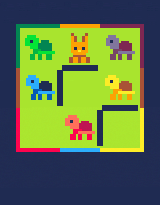
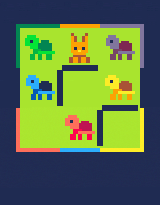
update colors of TurtlesAndHare

Changed region(s): [[0.0938, 0.322, 0.375, 0.761], [0.625, 0.1171, 0.9062, 0.5268]]

diff --git a/website/public/games/turtles-and-hare/player/index.js b/website/public/games/turtles-and-hare/player/index.js
@@ -68,24 +68,24 @@ var _cartdat=[
 0,0,0,0,0,0,0,0,0,0,0,0,0,0,0,0,0,0,0,0,0,0,0,0,0,0,0,0,0,0,0,0,0,0,0,0,0,0,0,0,0,0,0,0,0,0,0,0,0,0,0,0,0,0,0,0,0,0,0,0,0,0,0,0,0,0,0,0,0,0,0,0,0,0,0,0,0,0,0,0,0,0,0,0,0,0,0,0,0,0,0,0,0,0,0,0,0,0,0,0,0,0,0,0,0,0,0,0,0,0,0,0,0,0,0,0,0,0,0,0,0,0,0,0,0,0,0,0,0,0,0,0,0,0,0,0,0,0,0,0,0,0,0,0,0,0,0,0,0,0,0,0,0,0,0,0,0,0,0,0,0,0,0,0,0,0,0,0,0,0,0,0,0,0,0,0,0,0,0,0,0,0,0,0,0,0,0,0,0,0,0,0,0,0,0,0,0,0,0,0,0,0,0,0,0,0,0,0,0,0,0,0,0,0,0,0,0,0,0,0,0,0,0,0,0,0,0,0,0,0,0,0,0,0,0,0,0,0,0,0,0,0,0,0,0,0,0,0,0,0,0,0,0,0,0,0,
 0,0,0,0,0,0,0,0,0,0,0,0,0,0,0,0,0,0,0,0,0,0,0,0,0,0,0,0,0,0,0,0,0,0,0,0,0,0,0,0,0,0,0,0,0,0,0,0,0,0,0,0,0,0,0,0,0,0,0,0,0,0,0,0,0,0,0,0,0,0,0,0,0,0,0,0,0,0,0,0,0,0,0,0,0,0,0,0,0,0,0,0,0,0,0,0,0,0,0,0,0,0,0,0,0,0,0,0,0,0,0,0,0,0,0,0,0,0,0,0,0,0,0,0,0,0,0,0,0,0,0,0,0,0,0,0,0,0,0,0,0,0,0,0,0,0,0,0,0,0,0,0,0,0,0,0,0,0,0,0,0,0,0,0,0,0,0,0,0,0,0,0,0,0,0,0,0,0,0,0,0,0,0,0,0,0,0,0,0,0,0,0,0,0,0,0,0,0,0,0,0,0,0,0,0,0,0,0,0,0,0,0,0,0,0,0,0,0,0,0,0,0,0,0,0,0,0,0,0,0,0,0,0,0,0,0,0,0,0,0,0,0,0,0,0,0,0,0,0,0,0,0,0,0,0,0,
 0,0,0,0,0,0,0,0,0,0,0,0,0,0,0,0,0,0,0,0,0,0,0,0,0,0,0,0,0,0,0,0,0,0,0,0,0,0,0,0,0,0,0,0,0,0,0,0,0,0,0,0,0,0,0,0,0,0,0,0,0,0,0,0,0,0,0,0,0,0,0,0,0,0,0,0,0,0,0,0,0,0,0,0,0,0,0,0,0,0,0,0,0,0,0,0,0,0,0,0,0,0,0,0,0,0,0,0,0,0,0,0,0,0,0,0,0,0,0,0,0,0,0,0,0,0,0,0,0,0,0,0,0,0,0,0,0,0,0,0,0,0,0,0,0,0,0,0,0,0,0,0,0,0,0,0,0,0,0,0,0,0,0,0,0,0,0,0,0,0,0,0,0,0,0,0,0,0,0,0,0,0,0,0,0,0,0,0,0,0,0,0,0,0,0,0,0,0,0,0,0,0,0,0,0,0,0,0,0,0,0,0,0,0,0,0,0,0,0,0,0,0,0,0,0,0,0,0,0,0,0,0,0,0,0,0,0,0,0,0,0,0,0,0,0,0,0,0,0,0,0,0,0,0,0,0,
-0,112,120,97,50,46,17,142,235,193,226,35,188,194,35,36,247,95,254,10,217,221,79,112,123,115,126,84,118,51,158,56,37,59,190,206,218,55,72,78,201,174,41,170,180,47,202,129,46,59,167,104,23,188,122,79,243,0,205,51,76,196,209,72,218,157,84,60,64,85,22,3,51,51,233,68,93,36,231,215,249,68,113,221,91,4,183,92,21,4,197,134,11,95,96,202,11,67,193,84,241,26,213,130,243,25,190,69,88,86,97,112,220,113,206,107,157,159,135,240,66,116,221,156,100,248,145,86,146,1,201,164,100,168,243,211,70,81,219,222,55,112,159,241,143,172,51,70,91,167,206,255,177,216,25,171,29,232,141,253,10,246,9,23,234,212,121,109,236,108,23,13,24,183,52,78,89,148,246,45,23,124,229,248,44,116,149,250,72,20,41,134,203,121,149,224,72,157,196,186,232,79,218,173,149,19,3,225,130,177,178,76,151,28,177,212,72,28,84,153,179,98,49,177,202,89,34,75,73,222,59,43,214,50,79,152,101,242,39,81,238,172,168,17,102,111,217,133,19,206,43,157,143,82,128,40,
+0,112,120,97,50,54,17,143,235,193,226,35,188,194,35,36,247,95,254,10,217,221,79,112,123,115,126,84,118,51,158,56,37,59,190,206,218,55,72,78,201,174,41,170,180,47,202,129,46,59,167,104,23,188,122,79,243,0,205,51,76,196,209,72,218,157,84,60,64,85,22,3,51,51,233,68,93,36,231,215,249,68,113,221,91,4,183,92,21,4,197,134,11,95,96,202,11,67,193,84,241,26,213,130,243,25,190,69,88,86,97,112,220,113,206,107,157,159,135,240,66,116,221,156,100,248,145,86,146,1,201,164,100,168,243,211,70,81,219,222,55,112,159,241,143,172,51,70,91,167,206,255,177,216,25,171,29,232,141,253,10,246,9,23,234,212,121,109,236,108,23,13,24,183,52,78,89,148,246,45,23,124,229,248,44,116,149,250,72,20,41,134,203,121,149,224,72,157,196,186,232,79,218,173,149,19,3,225,130,177,178,76,151,28,177,212,72,28,84,153,179,98,49,177,202,89,34,75,73,222,59,43,214,50,79,152,101,242,39,81,238,172,168,17,102,111,217,133,19,206,43,157,143,82,128,40,
 54,222,132,100,120,18,145,144,52,200,180,196,15,145,181,40,158,16,121,87,235,156,48,212,44,146,57,103,224,44,101,146,40,168,2,103,38,206,136,4,18,133,97,146,52,116,166,242,211,132,75,210,170,118,78,44,102,174,222,62,109,38,255,208,213,181,177,202,50,147,159,142,165,100,218,60,200,157,217,56,59,173,156,147,7,202,236,234,140,19,54,202,44,117,224,188,162,113,78,83,201,172,163,84,153,236,34,157,119,201,71,244,113,44,243,174,48,146,121,149,184,12,52,140,42,165,117,196,82,138,141,148,186,74,37,19,237,75,145,40,141,199,70,21,173,75,157,149,69,186,240,81,168,201,194,194,88,138,83,170,180,141,92,149,239,164,207,231,142,50,203,4,195,19,246,161,113,10,233,137,38,14,141,85,245,58,246,168,133,83,154,137,76,17,255,8,245,105,6,18,227,85,185,229,140,211,133,82,77,149,188,166,140,125,50,65,157,129,94,223,54,211,98,213,221,44,244,45,245,142,38,58,93,114,164,105,108,188,118,64,170,62,82,49,145,238,103,236,41,93,62,129,164,180,106,6,
-52,249,19,245,153,38,111,3,4,225,235,146,72,122,29,3,35,193,72,16,12,14,61,196,220,224,214,214,72,148,85,50,63,89,179,182,56,26,25,161,239,150,50,63,116,111,49,145,68,131,241,194,66,88,143,6,197,108,63,90,174,141,86,187,85,81,107,6,76,173,142,14,38,5,14,132,244,67,35,93,159,143,228,205,196,212,212,102,178,152,239,53,155,77,220,108,54,59,141,66,64,95,44,118,213,94,36,232,176,17,239,236,45,109,180,209,140,74,88,89,14,153,99,72,41,32,87,12,216,84,11,144,8,85,24,16,18,153,146,13,145,8,28,21,21,88,21,20,104,6,23,102,22,182,70,151,22,222,98,96,172,30,26,40,242,98,160,24,40,22,22,22,234,126,104,103,114,97,98,112,98,34,29,94,137,70,251,149,145,34,104,38,22,179,102,166,210,58,72,170,201,170,233,246,186,34,105,180,8,130,206,125,35,158,72,131,192,19,117,61,235,138,206,85,123,154,33,105,26,164,245,152,147,60,179,167,30,210,205,169,7,140,104,134,213,154,33,171,74,34,3,129,43,102,157,210,
-40,142,108,58,201,127,143,16,207,22,207,160,59,160,17,214,36,169,91,178,129,34,112,83,224,173,164,24,208,31,170,170,77,63,86,238,138,220,163,83,80,4,110,105,189,165,64,166,43,210,249,45,208,21,203,221,213,4,97,224,150,93,111,85,145,119,52,72,70,253,168,43,118,165,123,232,42,36,76,135,100,29,6,166,230,198,235,161,162,216,40,10,55,140,100,153,17,34,199,136,67,76,206,44,78,47,237,109,70,131,163,81,83,84,39,222,184,209,141,151,233,110,19,9,192,110,236,173,41,7,204,41,48,76,109,52,42,12,213,78,147,4,162,48,65,102,1,63,84,134,8,28,17,88,102,111,58,79,103,250,209,102,100,201,21,139,205,112,150,204,142,140,236,148,19,114,114,163,201,149,35,179,85,50,213,46,175,245,35,206,89,171,167,210,102,101,175,84,29,24,142,54,10,249,134,229,40,206,102,227,92,137,30,75,11,77,99,154,201,217,106,192,137,158,162,244,176,178,108,205,178,105,174,96,213,37,152,31,86,143,132,221,208,148,74,68,146,132,19,145,248,133,48,193,68,148,
-62,133,136,200,120,150,14,116,93,25,207,152,65,137,68,3,29,105,18,103,73,52,180,51,180,80,132,74,8,130,23,97,232,134,201,205,225,11,203,51,151,93,167,24,78,69,154,46,159,74,52,195,68,115,20,148,139,161,217,165,137,137,96,174,92,206,35,249,128,40,106,150,39,131,237,40,81,72,173,102,38,38,20,18,38,39,21,23,231,251,169,225,3,70,36,110,151,203,213,81,33,130,197,188,24,24,238,123,81,165,33,61,140,137,110,91,51,76,166,177,44,199,226,60,217,214,65,152,18,12,209,16,10,133,2,60,146,7,117,173,28,166,181,179,28,13,41,7,54,237,154,6,194,230,110,42,30,210,117,15,209,36,123,114,31,113,112,227,64,93,15,44,109,230,11,85,160,47,188,181,89,22,235,253,72,191,52,32,96,80,105,118,172,142,218,127,131,105,17,149,194,4,2,33,206,92,147,95,88,106,23,131,40,207,151,146,50,73,154,114,200,7,69,33,143,188,16,8,192,217,212,76,142,17,99,231,9,227,105,48,174,111,208,134,114,12,51,69,155,196,27,51,210,37,77,117,
-107,161,83,164,52,192,124,2,73,156,173,228,125,166,41,103,175,91,237,255,116,254,79,22,22,242,225,27,207,146,112,71,64,212,211,153,169,244,225,187,50,149,172,39,139,130,228,147,97,158,210,43,63,37,10,229,150,4,77,244,86,52,27,22,6,181,231,143,201,44,216,221,154,74,229,142,52,226,165,96,169,20,55,22,43,218,14,39,195,87,236,228,65,225,135,222,243,218,104,2,121,115,102,250,234,176,172,50,142,240,61,231,122,77,12,73,173,181,88,192,58,26,29,217,15,77,69,195,66,121,150,235,233,83,207,168,81,9,105,246,27,221,191,88,102,30,118,201,237,14,81,204,17,50,23,200,164,109,100,131,26,30,8,105,150,70,61,34,86,85,111,40,4,237,116,23,172,20,26,111,51,51,193,136,136,231,228,13,39,180,35,89,42,33,146,201,82,4,218,19,55,172,105,200,155,5,66,36,82,123,137,4,67,76,24,94,1,33,132,123,103,234,140,182,189,192,107,100,16,46,34,9,13,224,57,96,65,245,223,91,73,20,233,165,11,70,130,197,51,138,98,108,58,148,17,108,
-47,16,18,135,175,148,196,157,12,150,221,244,91,108,146,87,152,79,18,81,187,17,245,33,75,46,100,23,52,107,26,16,141,40,177,109,22,220,144,236,109,77,35,73,184,189,83,230,11,66,2,10,6,129,176,144,224,207,68,159,45,236,232,251,234,189,71,187,88,153,71,80,112,187,22,27,82,39,167,66,255,211,151,179,67,209,152,119,212,106,132,234,228,15,50,225,14,205,214,78,183,190,131,90,59,86,28,88,28,129,5,209,89,119,10,188,172,138,251,79,247,72,194,254,161,198,16,113,254,146,220,96,223,233,184,107,107,89,37,109,88,37,221,35,43,83,59,210,15,11,229,194,28,178,133,67,107,79,63,90,40,54,150,249,29,210,150,157,152,152,205,146,5,233,0,235,67,101,54,106,171,42,177,38,142,132,29,176,50,212,251,96,123,204,71,153,31,131,36,209,233,211,45,86,236,37,153,80,218,8,84,75,93,53,34,12,133,170,135,255,20,240,171,20,52,170,33,176,8,102,168,240,56,75,12,86,156,29,250,58,218,27,7,12,150,122,206,115,189,138,208,132,183,50,111,169,
-150,255,83,249,156,155,72,54,20,210,227,218,62,73,196,209,35,246,19,169,35,6,234,136,65,227,199,192,111,218,197,69,84,39,218,37,165,123,132,17,101,144,18,231,137,146,255,149,109,72,26,159,68,89,147,204,155,78,246,115,89,112,98,40,203,148,94,187,73,133,119,20,133,164,59,138,45,69,147,162,80,48,41,138,102,165,153,217,28,49,175,48,58,200,131,100,79,229,233,138,229,92,240,86,10,197,204,10,40,184,34,228,153,113,183,73,122,10,146,137,122,150,162,254,86,169,200,157,52,56,172,235,49,196,105,226,176,19,237,136,90,110,42,90,201,7,66,81,190,36,169,7,214,53,184,33,32,36,186,32,146,142,212,9,25,204,18,229,70,251,197,254,143,180,104,37,191,159,201,25,219,170,29,73,141,44,86,130,253,11,11,161,254,233,19,106,245,119,166,235,68,15,22,216,42,132,79,194,145,108,198,128,18,12,49,225,151,244,167,16,57,84,190,195,92,73,207,208,165,170,169,168,233,178,176,112,28,19,162,176,101,13,45,162,70,65,225,192,160,80,129,112,104,105,143,76,
-45,36,122,116,130,226,214,111,234,119,181,131,180,253,131,58,226,17,50,167,84,159,80,198,130,198,251,213,117,206,74,202,74,237,255,39,20,137,108,142,105,196,40,177,207,187,122,231,70,159,240,138,28,18,78,112,168,220,255,8,103,4,202,253,165,48,129,42,86,188,2,46,129,98,212,105,123,158,14,60,163,175,170,119,57,168,120,27,104,220,6,42,233,39,10,138,63,114,145,217,76,17,238,213,243,83,146,241,218,88,208,219,81,143,23,74,140,79,39,125,250,161,67,19,157,240,196,84,63,33,162,27,163,186,144,253,185,191,112,69,43,77,23,109,219,203,255,69,98,145,40,18,150,95,211,5,211,176,23,100,132,109,163,150,97,225,212,85,167,134,107,78,190,35,82,141,199,146,76,172,150,216,29,133,245,81,90,159,77,38,27,158,194,251,44,10,193,209,164,17,23,79,166,174,30,85,163,189,166,20,24,21,76,151,250,250,163,21,179,97,30,86,14,159,82,132,103,2,18,14,255,140,197,193,225,221,186,33,228,222,112,42,216,59,201,3,103,74,139,44,77,243,106,136,180,41,
-72,135,91,64,252,92,28,81,36,212,25,115,99,165,252,235,61,37,58,231,137,209,105,209,202,206,63,161,238,220,68,46,197,67,143,35,146,81,221,144,194,164,196,172,172,166,144,255,95,37,79,193,172,209,132,88,130,165,213,73,98,225,213,150,135,101,36,11,165,54,221,20,166,65,43,178,45,123,43,146,187,46,119,223,164,19,139,92,94,4,155,112,128,246,184,4,70,43,129,241,108,105,87,141,232,11,65,175,184,146,100,85,57,28,112,56,54,39,47,46,216,9,15,219,133,63,74,172,141,209,6,202,157,82,190,252,255,31,29,59,9,3,41,246,208,181,152,24,127,68,71,23,247,212,212,15,250,21,255,161,138,74,240,226,25,173,58,71,77,152,94,59,141,50,167,144,248,169,126,46,145,242,178,196,144,30,45,3,135,87,207,188,56,32,40,104,126,57,6,242,197,31,57,253,65,205,224,252,158,96,149,122,148,33,199,26,107,206,140,166,122,236,64,160,241,40,85,129,189,40,79,133,239,136,161,177,161,29,19,8,163,133,123,91,88,17,168,39,11,76,227,19,65,255,167,35,
-164,201,41,39,188,32,84,234,104,145,85,249,75,161,230,126,105,209,87,122,244,115,247,148,190,61,4,113,117,61,148,148,124,166,94,184,211,108,81,81,248,52,229,79,229,80,129,79,1,113,233,21,155,94,186,48,114,243,101,171,240,71,184,222,74,46,50,239,63,116,241,129,134,227,33,20,241,67,97,55,81,216,7,54,142,155,184,195,171,201,59,168,24,126,145,213,144,96,248,15,17,253,228,51,42,195,74,231,159,32,60,164,203,35,141,169,228,255,27,96,194,35,148,63,223,178,232,248,187,49,177,186,177,199,103,68,219,123,55,84,205,17,152,77,216,1,9,57,151,237,48,103,55,10,38,86,11,161,96,146,4,35,9,18,10,38,47,100,19,110,14,77,4,27,209,112,51,98,250,164,155,93,212,149,158,133,94,226,51,210,165,153,237,20,119,73,170,170,27,114,74,182,220,81,81,248,97,37,125,210,1,125,114,70,250,228,247,152,218,64,165,80,254,35,207,115,53,242,152,46,110,27,213,242,40,20,39,186,36,113,37,83,18,137,147,36,98,37,10,229,167,194,250,197,85,7,
-131,35,2,171,162,199,60,89,210,182,181,135,82,227,43,168,11,99,196,30,90,48,190,20,67,146,164,113,128,235,153,20,137,175,92,175,36,144,23,24,51,69,211,219,94,137,109,84,71,162,166,243,189,194,66,117,44,108,58,231,87,69,64,95,196,58,203,190,87,97,137,32,41,156,255,89,175,179,222,158,245,85,88,79,246,180,242,190,140,83,120,55,244,150,62,253,163,95,127,81,143,225,84,62,59,179,182,158,192,120,57,86,230,23,23,25,85,176,88,155,27,223,16,183,164,236,146,153,158,33,203,85,118,113,172,19,148,116,51,221,182,237,177,156,205,239,133,135,134,161,163,249,206,40,210,27,188,97,54,219,148,24,106,195,174,9,209,124,80,74,72,11,63,250,241,16,19,88,157,82,124,96,52,17,113,23,195,53,91,221,220,6,227,149,67,212,87,69,168,83,17,127,84,90,148,4,149,99,180,196,31,37,241,23,42,198,1,217,165,193,222,224,170,36,153,74,249,102,55,87,213,39,130,82,218,169,104,181,233,212,201,39,34,142,89,17,241,31,93,43,35,150,72,155,4,141,
-128,184,52,242,127,50,135,209,4,172,148,52,236,90,50,57,89,40,57,243,116,193,64,21,234,116,25,178,51,68,96,136,56,212,9,32,69,18,157,28,214,54,8,120,219,120,69,73,228,134,20,167,203,102,139,66,58,254,228,28,180,168,195,16,243,39,86,28,111,104,152,192,240,73,22,134,146,168,221,168,252,154,21,89,226,55,145,25,73,41,106,10,86,93,204,18,121,88,218,66,41,8,151,40,104,100,168,55,253,207,194,62,181,125,84,107,142,24,91,85,177,88,57,65,84,28,50,172,105,234,109,101,193,66,89,40,8,5,223,81,138,132,63,242,226,144,127,143,54,69,26,12,20,65,221,168,45,204,68,126,201,130,162,8,162,40,113,67,153,185,159,69,225,254,104,88,203,137,191,98,226,148,15,117,127,196,196,51,53,33,100,47,205,248,127,171,245,208,102,128,254,133,74,209,91,149,84,188,139,66,185,81,254,167,153,13,162,137,201,137,149,144,236,76,71,22,151,59,234,50,168,22,133,34,138,98,196,127,0,102,98,152,192,208,59,179,67,98,225,245,62,196,2,213,195,145,
-36,184,29,254,107,167,155,217,224,21,83,97,111,59,32,125,209,78,216,81,86,56,119,146,21,107,149,214,191,44,49,96,205,41,235,87,74,168,49,71,224,35,243,55,49,71,99,142,198,71,133,52,254,73,153,164,0,27,30,20,51,138,89,110,124,88,42,140,98,225,47,178,135,131,202,204,31,105,191,116,194,148,115,19,115,166,110,163,234,128,198,205,185,27,2,111,235,125,68,115,120,46,46,49,45,171,69,92,82,150,116,188,19,222,29,126,23,13,102,141,72,34,5,246,233,140,59,85,44,12,90,179,106,134,76,221,207,69,74,59,181,76,112,32,19,142,64,38,56,144,9,228,76,19,176,41,111,62,185,166,43,126,166,198,151,146,184,96,45,92,90,71,59,91,97,220,180,58,34,59,81,219,68,49,42,142,11,17,198,127,201,36,145,212,17,123,12,135,3,217,76,180,154,109,110,76,87,93,44,172,203,94,225,91,152,161,175,240,82,113,121,136,48,109,26,116,73,44,95,202,37,185,64,142,61,96,63,62,229,245,31,114,194,250,235,255,43,52,172,194,254,159,248,78,44,80,
-115,130,64,253,33,99,54,97,179,102,103,214,136,67,5,222,20,171,201,44,179,135,9,69,145,135,153,202,165,54,35,172,226,233,124,48,159,200,153,63,148,75,194,69,59,101,138,228,148,105,47,245,159,66,230,9,29,132,171,25,84,107,216,232,194,145,145,25,1,247,73,13,20,188,79,254,71,182,139,56,137,100,251,153,133,133,161,133,222,14,24,43,186,189,162,112,189,113,44,197,85,68,127,152,192,129,34,62,167,36,169,239,115,41,42,40,209,107,138,173,244,125,99,97,127,45,12,2,240,81,159,58,154,121,17,106,73,42,223,44,36,11,198,222,93,234,87,155,146,183,145,40,32,12,33,208,108,149,227,92,224,220,37,118,226,9,132,69,140,34,160,39,162,126,163,98,111,244,67,63,64,183,86,68,140,236,200,17,36,76,134,144,76,52,69,236,237,5,237,28,136,71,104,246,170,36,201,156,175,199,184,225,128,126,127,221,24,83,154,1,206,211,143,23,91,161,149,54,154,43,114,44,21,63,137,230,72,138,189,52,47,190,32,77,102,184,16,37,40,98,121,53,231,184,158,115,
-3,147,176,132,14,129,52,81,47,142,67,86,82,233,202,134,16,81,194,1,185,112,106,4,179,152,194,82,50,71,167,9,101,154,42,149,159,36,117,202,125,225,147,41,223,158,76,89,37,83,78,87,39,154,241,17,19,57,23,95,84,92,63,37,138,141,126,224,138,102,57,89,95,113,71,234,126,238,119,234,164,150,14,101,103,242,9,79,201,199,146,243,176,70,87,47,210,51,21,200,38,246,9,126,34,244,21,64,135,140,200,156,223,140,149,86,19,225,1,101,10,9,11,99,87,138,247,202,124,222,57,243,206,69,193,145,97,123,172,78,45,161,160,184,92,161,99,99,140,33,227,79,130,74,74,204,10,82,162,170,78,108,31,202,142,3,26,37,73,139,189,200,246,28,128,249,192,164,182,79,96,95,133,255,139,231,203,5,226,229,255,53,24,224,23,26,124,31,172,31,177,19,32,224,65,127,131,124,210,222,254,98,48,139,90,38,98,159,226,37,43,209,150,90,253,32,28,65,99,28,163,179,2,200,49,124,20,209,112,81,209,83,164,161,39,224,97,4,122,18,114,194,25,154,156,169,
-154,104,83,156,138,70,203,161,23,48,167,23,26,134,58,193,137,78,152,76,184,198,102,10,93,113,232,9,200,112,44,43,10,20,73,33,21,30,164,9,119,201,26,39,122,209,23,40,150,39,88,236,34,95,75,113,172,223,176,178,88,108,207,76,133,82,35,107,214,168,78,240,253,232,180,156,200,33,30,105,146,217,214,190,2,178,82,230,8,10,65,62,243,8,16,68,39,172,109,115,124,248,85,112,124,32,183,152,227,12,186,49,82,82,90,80,82,35,198,4,37,117,84,203,161,148,186,36,67,55,37,67,135,196,215,159,40,145,12,167,88,250,42,214,79,104,214,18,206,15,159,158,203,25,89,38,110,12,72,227,82,86,138,50,224,42,199,78,165,208,170,20,94,89,49,165,240,41,155,106,138,255,223,216,152,166,248,255,8,201,99,154,163,205,36,11,66,102,54,134,168,228,181,178,140,211,36,10,138,162,1,119,65,94,24,79,213,116,82,226,204,154,64,75,176,136,156,166,167,53,59,1,246,225,7,66,132,71,112,66,216,126,105,38,29,254,255,172,165,195,155,37,64,32,254,255,
-174,65,64,252,191,189,65,232,8,252,25,126,49,19,249,45,166,191,83,248,64,252,71,233,250,103,129,26,68,93,191,113,5,145,204,245,158,82,16,113,253,49,167,32,66,163,228,75,234,188,14,9,112,37,25,104,200,67,124,92,145,178,14,160,8,136,180,212,52,72,71,30,197,244,31,11,197,34,255,17,137,166,79,47,157,131,218,56,155,96,51,78,72,53,7,87,137,19,160,204,127,81,127,120,33,198,252,28,206,13,141,42,166,150,15,76,141,151,113,204,111,210,43,39,19,134,63,56,94,254,79,25,222,80,93,254,135,11,196,37,48,13,0,0,0,0,0,0,0,0,0,0,0,0,0,0,0,0,0,0,0,0,0,0,0,0,0,0,0,0,0,0,0,0,0,0,0,0,0,0,0,0,0,0,0,0,0,0,0,0,0,0,0,0,0,0,0,0,0,0,0,0,0,0,0,0,0,0,0,0,0,0,0,0,0,0,0,0,0,0,0,0,0,0,0,0,0,0,0,0,0,0,0,0,0,0,0,0,0,0,0,0,0,0,0,0,0,0,0,0,0,0,0,0,0,0,
+52,249,19,245,153,38,111,3,4,225,235,146,72,122,29,3,35,193,72,16,12,14,61,196,220,224,214,214,72,148,85,50,63,89,179,182,56,26,25,161,239,150,50,63,116,111,49,145,68,131,241,194,66,88,143,6,197,108,63,90,174,141,86,187,85,81,107,6,76,173,142,14,38,5,14,132,244,67,35,93,159,143,228,205,196,212,212,102,178,152,239,53,155,77,220,108,54,59,141,66,64,95,44,118,213,94,36,232,176,17,239,236,45,109,180,209,140,74,88,89,14,153,99,72,41,32,87,12,216,84,11,144,8,85,24,16,18,153,146,13,209,15,136,86,212,4,138,5,89,129,85,73,129,106,111,98,102,98,106,115,105,226,45,22,182,76,177,176,84,23,19,69,47,203,209,247,109,189,52,180,216,15,236,13,12,164,195,27,209,38,118,4,236,6,197,194,98,212,172,84,122,7,73,53,89,53,51,75,93,145,52,122,4,65,231,190,13,79,140,5,129,39,234,122,214,21,157,171,6,53,67,210,52,72,235,49,39,121,102,80,61,164,155,83,15,24,209,12,171,53,67,86,149,68,6,2,
+87,204,58,165,81,28,25,117,146,255,30,33,222,44,158,65,119,64,35,172,73,82,183,100,3,69,224,166,192,91,73,49,160,63,84,85,155,126,172,220,21,185,71,167,160,8,220,210,122,75,129,76,87,164,243,91,160,43,150,187,171,9,194,192,45,187,222,170,34,239,104,144,140,250,81,87,236,74,247,16,86,72,152,14,73,59,12,76,205,141,215,67,69,177,81,20,110,24,201,50,35,68,142,17,136,152,156,89,156,94,218,219,140,6,71,163,166,168,78,188,113,163,27,47,211,221,38,18,129,221,216,91,83,14,152,147,96,152,218,104,100,152,138,42,16,134,9,42,11,248,33,50,68,224,136,192,50,123,211,117,185,146,143,54,27,67,174,88,108,134,179,100,118,99,99,166,156,144,148,27,77,174,28,153,173,146,165,118,121,172,31,113,206,88,189,152,54,43,123,165,234,192,112,180,81,200,55,44,71,113,54,27,231,106,244,88,90,104,26,211,76,206,86,3,78,244,20,169,135,149,101,107,150,77,115,5,171,46,65,253,176,122,36,236,134,166,84,34,146,36,156,136,4,48,132,9,
+38,162,244,41,68,68,198,179,116,160,235,202,120,198,12,74,36,26,232,72,147,56,75,162,161,157,161,133,34,84,66,16,189,8,67,55,76,110,14,95,88,158,185,236,58,197,112,42,210,116,249,84,162,25,38,156,163,160,92,12,205,46,77,76,4,115,229,114,30,201,7,68,81,179,60,25,108,71,137,66,106,53,51,49,161,144,48,57,169,184,56,223,79,13,31,48,34,113,187,92,174,142,10,17,44,230,197,192,112,223,139,42,13,41,98,76,116,219,154,97,50,141,101,57,22,231,201,182,14,194,148,96,136,134,80,40,20,224,145,60,168,107,229,48,189,157,229,104,72,57,176,105,215,52,16,54,119,83,241,144,174,123,136,38,217,147,252,136,131,27,7,234,122,96,105,51,95,168,2,125,225,173,205,178,88,239,71,250,165,1,1,131,74,183,99,117,212,254,27,76,139,168,20,38,16,8,113,230,154,252,194,82,187,24,68,121,190,148,148,73,210,148,67,62,40,10,121,228,133,64,0,206,166,102,114,140,24,59,79,24,79,131,113,125,131,54,148,99,152,41,218,36,222,152,145,46,
+105,170,91,11,157,34,165,1,238,19,72,226,108,37,239,51,77,57,123,221,106,255,167,243,127,178,176,144,15,223,120,150,132,59,2,162,158,206,76,165,15,223,149,169,100,61,89,20,36,159,12,243,148,94,249,41,81,40,183,36,104,162,183,162,217,176,48,168,61,127,76,102,193,238,214,84,42,119,164,17,47,5,75,165,184,177,88,209,118,56,25,190,98,39,15,10,63,244,158,215,70,19,200,155,51,211,87,135,101,149,113,132,239,57,215,107,98,72,106,173,197,2,214,209,232,200,126,104,42,34,22,202,179,92,79,159,122,70,141,74,72,179,223,232,254,197,50,243,176,75,110,119,136,98,142,208,185,64,38,109,35,27,212,240,64,72,179,52,234,17,177,170,122,67,33,104,167,187,96,165,208,120,155,153,9,70,68,60,39,111,56,161,29,201,82,9,145,76,150,34,208,158,184,97,77,67,222,44,16,34,145,218,75,36,24,98,194,240,10,8,33,220,59,83,103,180,237,5,94,35,131,112,17,73,104,0,208,1,11,170,255,222,74,162,72,47,93,48,18,44,158,81,20,99,211,161,
+140,96,123,129,144,56,124,165,36,238,100,176,236,166,223,98,147,188,194,124,146,136,218,141,168,15,89,114,33,187,160,89,211,128,104,68,137,109,179,224,134,100,111,107,26,73,194,237,157,50,95,16,18,80,48,8,132,133,4,127,38,250,108,97,71,223,87,239,61,218,197,202,60,130,130,219,181,216,144,58,57,21,250,159,190,156,29,138,198,188,163,86,35,84,39,127,144,9,119,104,182,118,186,245,29,212,218,177,226,192,226,8,48,136,206,186,83,224,101,85,220,127,186,71,18,246,15,53,134,136,243,151,230,6,251,78,199,93,91,203,42,105,195,42,233,30,89,153,218,145,126,88,40,23,230,144,45,28,90,123,250,209,66,177,177,204,239,144,182,236,196,196,108,150,44,72,7,88,31,42,179,81,91,85,137,53,113,36,236,128,149,161,222,7,219,99,62,202,252,24,36,137,78,159,110,177,98,47,201,132,210,70,160,90,234,170,17,97,40,84,61,252,167,128,95,165,160,81,13,129,69,48,67,133,199,89,98,176,226,236,208,215,209,222,56,96,176,212,115,158,235,85,132,38,188,149,
+121,75,181,252,159,202,231,220,68,178,161,144,30,215,246,73,34,142,30,177,159,72,29,49,80,71,12,26,63,6,126,211,46,46,162,58,209,46,41,221,35,140,40,131,148,56,79,148,252,175,108,67,210,248,36,202,154,100,222,116,178,159,203,130,19,67,89,166,244,218,77,42,188,163,40,36,221,81,108,41,154,20,133,130,73,81,52,43,205,204,230,136,121,133,209,65,31,36,123,42,79,87,44,231,130,183,82,40,102,86,64,193,21,33,207,140,187,77,210,83,144,76,212,179,20,245,183,74,69,238,164,193,97,93,143,33,78,19,135,157,104,71,212,114,83,209,74,62,16,138,242,37,73,61,176,174,193,13,1,33,209,5,145,116,164,78,200,96,150,40,55,218,47,246,127,164,69,43,249,253,76,206,216,86,237,72,106,100,177,18,236,95,88,8,245,79,159,80,171,191,51,93,39,122,176,192,86,33,124,18,142,100,51,6,148,96,136,9,191,164,63,133,200,161,242,29,230,74,122,134,46,85,77,69,77,151,133,133,227,152,16,133,45,107,104,17,53,10,10,7,6,133,10,132,67,75,
+123,100,106,33,209,163,19,20,183,126,83,191,171,29,164,237,31,212,17,143,144,57,165,250,132,50,22,52,222,175,174,115,86,82,86,106,255,63,161,72,100,115,76,35,70,137,125,222,213,59,55,250,132,87,228,144,112,130,67,229,254,71,56,35,80,238,47,133,9,84,177,226,21,112,9,20,163,78,219,243,116,224,25,125,85,189,203,65,197,219,64,227,54,80,73,63,81,80,252,145,139,204,102,138,112,175,158,159,146,140,215,198,130,222,142,122,188,80,98,124,58,233,211,15,29,154,232,132,39,166,250,9,17,221,24,213,133,236,207,253,133,43,90,105,186,104,219,94,254,47,18,139,68,145,176,252,154,46,152,134,189,32,35,108,27,181,12,11,167,174,58,53,92,115,242,29,145,106,60,150,100,98,181,196,238,40,172,143,210,250,108,50,217,240,20,222,103,81,8,142,38,141,184,120,50,117,245,168,26,237,53,165,192,168,96,186,212,215,31,173,152,13,243,176,114,248,148,34,60,19,144,112,248,103,44,14,14,239,214,13,33,247,134,83,193,222,73,30,56,83,90,100,105,154,87,67,
+164,77,65,58,220,2,226,231,226,136,34,161,206,152,27,43,229,95,239,41,209,57,79,140,78,139,86,118,254,9,117,231,38,114,41,30,122,28,145,140,234,134,20,38,37,102,101,53,133,252,255,42,121,10,102,141,38,196,18,44,173,78,18,11,175,182,60,44,35,89,40,181,233,166,48,13,90,145,109,217,91,145,220,117,185,251,38,157,88,228,242,34,216,132,3,180,199,37,48,90,9,140,103,75,187,106,68,95,8,122,197,149,36,171,202,225,128,195,177,57,121,113,193,78,120,216,46,252,81,98,109,140,54,80,238,148,242,229,255,255,232,216,73,24,72,177,135,174,197,196,248,35,58,186,184,167,166,126,208,175,248,15,85,84,130,23,207,104,213,57,106,194,244,218,105,148,57,133,196,79,245,115,137,148,151,37,134,244,104,25,56,188,122,230,197,1,65,65,243,203,49,144,47,254,200,233,15,106,6,231,247,4,171,212,163,12,57,214,88,115,102,52,213,99,7,2,141,71,169,10,236,69,121,42,124,71,12,141,13,237,152,64,24,45,220,219,194,138,64,61,89,96,26,159,8,250,
+63,29,33,77,78,57,225,5,161,82,71,139,172,202,95,10,53,247,75,139,190,210,163,159,187,167,244,237,33,136,171,235,161,164,228,51,245,194,157,102,139,138,194,167,41,127,42,135,10,124,10,136,75,175,216,244,210,133,145,155,47,91,133,63,194,245,86,114,145,121,255,161,139,15,52,28,15,161,136,31,10,187,137,194,62,176,113,220,196,29,94,77,222,65,197,240,139,172,134,4,195,127,136,232,39,159,81,25,86,58,255,4,225,33,93,30,105,76,37,255,223,0,19,30,161,252,249,150,69,199,223,141,137,213,141,61,62,35,218,222,187,161,106,142,192,108,194,14,72,200,185,108,135,57,187,81,48,177,90,8,5,147,36,24,73,144,80,48,121,33,155,112,115,104,34,216,136,134,155,17,211,39,221,236,162,174,244,44,244,18,159,145,46,205,108,167,184,75,82,85,221,144,83,178,229,142,138,194,15,43,233,147,14,232,147,51,210,39,191,199,212,6,42,133,242,31,121,158,171,145,199,116,113,219,168,150,71,161,56,209,37,137,43,153,146,72,156,36,17,43,81,40,63,21,214,47,
+182,58,24,28,17,88,21,61,230,201,146,182,173,61,102,124,165,117,97,140,216,67,11,198,151,98,72,146,52,14,112,61,147,34,241,149,235,149,4,242,2,99,166,104,122,219,43,177,141,234,136,188,128,182,248,194,80,118,44,172,50,235,91,71,64,97,196,59,81,97,124,5,158,8,146,194,250,167,247,42,239,205,89,95,133,245,164,79,43,239,203,56,133,119,67,111,105,212,63,26,246,23,251,24,46,213,171,43,99,235,9,144,151,99,100,126,112,144,83,5,139,177,181,241,113,129,75,210,46,153,233,57,178,92,101,23,199,58,65,73,183,210,109,219,30,203,217,252,94,120,104,24,58,154,243,140,34,189,193,27,102,179,77,137,161,54,236,154,16,207,7,165,132,244,240,163,33,15,49,129,213,41,213,7,78,19,17,120,49,92,179,213,205,109,112,94,57,132,125,85,132,58,21,241,71,168,69,73,80,61,70,75,252,81,18,127,193,98,28,160,93,26,236,13,174,74,146,169,148,111,118,115,85,129,34,40,181,157,138,86,159,78,157,124,34,226,152,21,17,255,209,181,50,98,137,180,
+73,208,8,136,75,39,255,39,119,24,77,0,75,73,195,175,37,147,147,133,146,51,83,23,12,84,161,86,151,33,59,67,4,134,136,67,157,0,90,36,209,202,97,110,131,128,187,141,87,148,68,110,72,145,186,76,85,67,58,254,228,29,180,38,67,17,243,167,85,28,111,103,152,192,240,73,6,118,146,40,157,168,252,154,21,89,226,55,145,25,73,41,114,10,86,93,204,18,121,88,234,66,41,40,151,40,104,100,168,39,253,207,194,62,177,125,84,107,142,216,26,85,177,24,57,65,84,28,50,172,105,234,109,101,193,66,89,40,8,5,223,81,138,132,63,242,226,144,127,143,54,69,26,244,69,80,55,106,11,43,145,95,178,160,40,130,40,74,220,80,102,238,103,81,184,63,26,214,114,226,175,152,56,229,67,221,31,49,241,44,13,11,217,75,51,254,223,106,61,180,25,224,127,161,82,244,86,37,21,239,162,80,110,148,255,105,102,131,104,98,114,98,37,164,59,211,145,197,229,142,188,12,170,69,161,136,162,24,241,31,132,153,24,38,48,244,206,236,144,88,120,189,15,177,64,245,
+112,36,9,114,135,255,218,233,102,54,152,197,84,216,219,14,88,95,180,227,129,202,248,11,71,172,149,88,255,178,68,111,205,41,235,87,74,168,49,71,224,35,243,55,49,71,99,142,198,71,133,52,254,73,154,164,16,27,30,28,51,106,121,110,124,104,42,140,98,225,47,182,135,131,204,204,31,105,191,112,193,148,115,11,115,166,6,18,131,3,182,220,92,187,33,240,182,222,71,54,135,232,226,18,211,178,90,196,38,101,73,198,59,225,221,97,120,209,96,214,136,52,82,96,159,206,184,83,197,194,160,53,171,102,200,212,253,92,164,180,83,203,4,7,50,225,8,100,130,3,153,64,214,52,129,155,242,14,76,174,233,138,159,169,241,165,36,46,88,11,151,214,209,212,86,24,55,173,142,200,78,212,54,81,140,139,227,194,132,241,95,50,73,52,117,196,31,195,225,64,54,19,173,102,155,27,211,85,23,11,235,178,87,248,22,102,232,43,188,100,92,30,50,76,155,134,93,18,203,151,116,73,46,144,99,15,220,143,79,121,253,135,156,176,254,250,255,10,13,171,176,255,39,194,19,11,
+212,156,32,80,127,200,152,77,216,172,217,153,53,226,80,129,56,197,106,50,203,252,97,66,82,228,225,166,114,169,205,8,171,120,58,31,204,39,114,230,15,229,146,112,17,79,153,34,57,101,218,75,254,167,160,121,66,7,225,106,6,213,26,54,186,112,100,100,70,192,125,82,3,5,243,147,255,145,237,162,78,34,217,126,102,97,97,104,161,183,3,198,138,110,175,40,92,111,44,75,113,21,213,31,38,144,160,136,209,41,73,234,251,92,138,12,74,20,155,98,43,125,223,88,216,95,11,131,16,124,212,167,142,102,95,132,90,146,202,55,11,201,130,177,119,151,250,213,166,228,110,36,10,8,195,8,52,91,229,56,23,56,119,137,157,152,2,97,17,165,8,8,138,168,223,168,24,28,253,208,15,208,173,21,17,163,59,114,4,9,151,33,36,19,77,17,123,123,65,59,7,230,17,154,189,42,73,50,231,235,49,110,56,160,223,95,55,198,148,102,128,243,244,227,197,87,104,165,141,230,138,28,75,197,79,170,57,146,98,47,117,139,51,77,102,216,16,37,40,98,121,53,231,184,158,115,
+3,147,192,132,14,129,52,81,47,150,67,86,82,233,202,134,18,81,194,1,185,112,106,4,51,153,194,82,50,71,169,9,101,154,42,149,159,52,117,202,125,225,147,41,223,158,76,89,37,83,78,87,39,154,241,17,19,57,23,99,84,92,63,37,138,141,126,224,138,102,57,89,95,113,71,234,126,238,119,234,164,150,14,101,103,242,9,79,201,199,210,243,176,70,87,47,210,51,21,200,38,246,9,130,34,244,21,64,135,140,200,156,223,172,149,86,83,225,1,101,10,9,11,227,87,138,247,202,124,222,57,243,206,197,193,145,97,123,172,78,45,161,160,184,92,161,99,99,140,33,227,79,130,74,74,204,10,82,162,170,78,108,31,202,143,3,26,37,73,139,190,200,246,28,128,249,192,164,182,79,96,95,133,255,139,233,203,5,227,229,255,53,24,32,24,26,128,31,172,31,177,19,96,224,65,127,131,124,210,222,254,98,48,139,91,38,98,159,226,37,43,209,150,90,253,64,28,65,99,28,163,179,2,200,49,128,20,17,113,81,209,147,164,161,39,224,97,4,124,18,114,194,25,154,156,169,
+154,104,83,156,138,72,203,161,23,48,167,23,26,134,58,193,137,78,152,76,184,198,102,10,93,113,232,9,200,112,44,43,10,20,73,33,21,30,164,9,119,201,27,39,122,209,23,40,150,39,88,236,34,95,75,113,172,223,176,178,88,108,207,76,133,82,35,107,214,168,78,240,253,8,181,156,200,33,30,105,146,217,214,190,2,178,82,230,8,10,65,62,243,8,16,68,39,172,109,115,124,248,85,112,124,32,187,152,227,12,194,49,82,82,90,80,82,163,198,4,37,117,84,203,161,148,186,36,67,55,37,67,135,196,215,159,40,145,12,167,88,250,42,222,79,104,214,18,206,15,159,158,203,25,89,38,110,12,72,227,82,86,138,50,232,42,199,78,165,208,170,20,94,89,49,165,240,41,155,106,138,255,223,216,152,166,248,255,8,201,99,154,165,205,36,11,66,110,54,6,169,228,181,178,140,211,36,10,138,162,1,119,65,94,24,79,213,116,82,226,204,154,64,75,176,136,156,166,167,53,59,1,246,225,7,66,132,71,112,66,216,126,105,38,29,254,255,172,165,195,155,37,64,32,254,255,
+174,65,64,252,191,189,65,233,8,252,25,126,49,19,249,45,166,191,83,248,64,252,71,233,250,103,129,26,68,93,191,113,5,145,204,245,158,82,16,113,253,49,167,32,146,224,49,185,130,58,175,67,18,92,73,6,26,242,16,31,91,164,172,67,40,2,42,45,53,13,210,145,71,49,253,199,66,177,200,127,68,162,233,211,75,231,160,54,206,38,216,140,19,84,205,193,85,226,132,40,243,95,212,31,94,144,49,63,135,115,67,227,138,169,229,3,83,227,229,28,243,155,246,202,201,132,225,15,146,151,255,83,134,55,88,151,255,225,2,113,9,76,3,0,0,0,0,0,0,0,0,0,0,0,0,0,0,0,0,0,0,0,0,0,0,0,0,0,0,0,0,0,0,0,0,0,0,0,0,0,0,0,0,0,0,0,0,0,0,0,0,0,0,0,0,0,0,0,0,0,0,0,0,0,0,0,0,0,0,0,0,0,0,0,0,0,0,0,0,0,0,0,0,0,0,0,0,0,0,0,0,0,0,0,0,0,0,0,0,0,0,0,0,0,0,0,0,0,0,0,0,0,0,0,0,0,
 0,0,0,0,0,0,0,0,0,0,0,0,0,0,0,0,0,0,0,0,0,0,0,0,0,0,0,0,0,0,0,0,0,0,0,0,0,0,0,0,0,0,0,0,0,0,0,0,0,0,0,0,0,0,0,0,0,0,0,0,0,0,0,0,0,0,0,0,0,0,0,0,0,0,0,0,0,0,0,0,0,0,0,0,0,0,0,0,0,0,0,0,0,0,0,0,0,0,0,0,0,0,0,0,0,0,0,0,0,0,0,0,0,0,0,0,0,0,0,0,0,0,0,0,0,0,0,0,0,0,0,0,0,0,0,0,0,0,0,0,0,0,0,0,0,0,0,0,0,0,0,0,0,0,0,0,0,0,0,0,0,0,0,0,0,0,0,0,0,0,0,0,0,0,0,0,0,0,0,0,0,0,0,0,0,0,0,0,0,0,0,0,0,0,0,0,0,0,0,0,0,0,0,0,0,0,0,0,0,0,0,0,0,0,0,0,0,0,0,0,0,0,0,0,0,0,0,0,0,0,0,0,0,0,0,0,0,0,0,0,0,0,0,0,0,0,0,0,0,0,0,0,0,0,0,0,
 0,0,0,0,0,0,0,0,0,0,0,0,0,0,0,0,0,0,0,0,0,0,0,0,0,0,0,0,0,0,0,0,0,0,0,0,0,0,0,0,0,0,0,0,0,0,0,0,0,0,0,0,0,0,0,0,0,0,0,0,0,0,0,0,0,0,0,0,0,0,0,0,0,0,0,0,0,0,0,0,0,0,0,0,0,0,0,0,0,0,0,0,0,0,0,0,0,0,0,0,0,0,0,0,0,0,0,0,0,0,0,0,0,0,0,0,0,0,0,0,0,0,0,0,0,0,0,0,0,0,0,0,0,0,0,0,0,0,0,0,0,0,0,0,0,0,0,0,0,0,0,0,0,0,0,0,0,0,0,0,0,0,0,0,0,0,0,0,0,0,0,0,0,0,0,0,0,0,0,0,0,0,0,0,0,0,0,0,0,0,0,0,0,0,0,0,0,0,0,0,0,0,0,0,0,0,0,0,0,0,0,0,0,0,0,0,0,0,0,0,0,0,0,0,0,0,0,0,0,0,0,0,0,0,0,0,0,0,0,0,0,0,0,0,0,0,0,0,0,0,0,0,0,0,0,0,
 0,0,0,0,0,0,0,0,0,0,0,0,0,0,0,0,0,0,0,0,0,0,0,0,0,0,0,0,0,0,0,0,0,0,0,0,0,0,0,0,0,0,0,0,0,0,0,0,0,0,0,0,0,0,0,0,0,0,0,0,0,0,0,0,0,0,0,0,0,0,0,0,0,0,0,0,0,0,0,0,0,0,0,0,0,0,0,0,0,0,0,0,0,0,0,0,0,0,0,0,0,0,0,0,0,0,0,0,0,0,0,0,0,0,0,0,0,0,0,0,0,0,0,0,0,0,0,0,0,0,0,0,0,0,0,0,0,0,0,0,0,0,0,0,0,0,0,0,0,0,0,0,0,0,0,0,0,0,0,0,0,0,0,0,0,0,0,0,0,0,0,0,0,0,0,0,0,0,0,0,0,0,0,0,0,0,0,0,0,0,0,0,0,0,0,0,0,0,0,0,0,0,0,0,0,0,0,0,0,0,0,0,0,0,0,0,0,0,0,0,0,0,0,0,0,0,0,0,0,0,0,0,0,0,0,0,0,0,0,0,0,0,0,0,0,0,0,0,0,0,0,0,0,0,0,0,

diff --git a/website/public/games/turtles-and-hare/player/index.html b/website/public/games/turtles-and-hare/player/index.html
@@ -980,7 +980,7 @@ canvas{
 
 .p8_start_button{
 	cursor:pointer;
[2 lines of base64/hex data omitted]
 	-repeat center;
 	-webkit-background-size:cover; -moz-background-size:cover; -o-background-size:cover; background-size:cover;
 }

diff --git a/TurtlesAndHare/concept.py b/TurtlesAndHare/concept.py
@@ -67,14 +67,14 @@ def render(background, filename, selected=None):
     image = Image.new("RGB", (128, 128), C[background])
     d = ImageDraw.Draw(image)
 
-    # Four-pixel food sections on a brown rim. Blank sections stay brown.
-    rect(d, (0, 0, 127, 127), 4)
+    # Four-pixel food sections on a dark-blue rim.
+    rect(d, (0, 0, 127, 127), 1)
     rect(d, (EDGE, EDGE, 123, 123), background)
     food_edges = (
         (3, (0, 0, 43, 3)), (3, (0, 4, 3, 43)),       # green
         (9, (44, 0, 83, 3)),                           # orange
-        (2, (84, 0, 127, 3)), (2, (124, 4, 127, 43)), # purple
-        (8, (0, 84, 3, 127)), (8, (4, 124, 43, 127)), # red
+        (13, (84, 0, 127, 3)), (13, (124, 4, 127, 43)), # purple
+        (20, (0, 84, 3, 127)), (20, (4, 124, 43, 127)), # red
         (12, (44, 124, 83, 127)),                       # blue
         (10, (84, 124, 127, 127)),
         (10, (124, 84, 127, 123)),                     # yellow

diff --git a/TurtlesAndHare/README.md b/TurtlesAndHare/README.md
@@ -54,7 +54,8 @@ The reference photo shows a **3×3 board (nine spaces)**. A four-pixel food edge
 leaves 120×120 pixels inside, or 40×40 per space. The green terrain uses PICO-8
 extended color 138 (lime). Solid sections of the four-pixel rim mark the six
 food colors: green, orange, purple, red, blue, and yellow. Rim sections without
-food stay brown.
+food stay dark blue. The purple and red food edges use the lightest shades
+from their matching turtles.
 
 The five turtles and orange hare were downsized directly from `image.png` by
 `extract_reference.py` before copying to `animals.png`. The original turtle eyes measure about 28 source pixels
